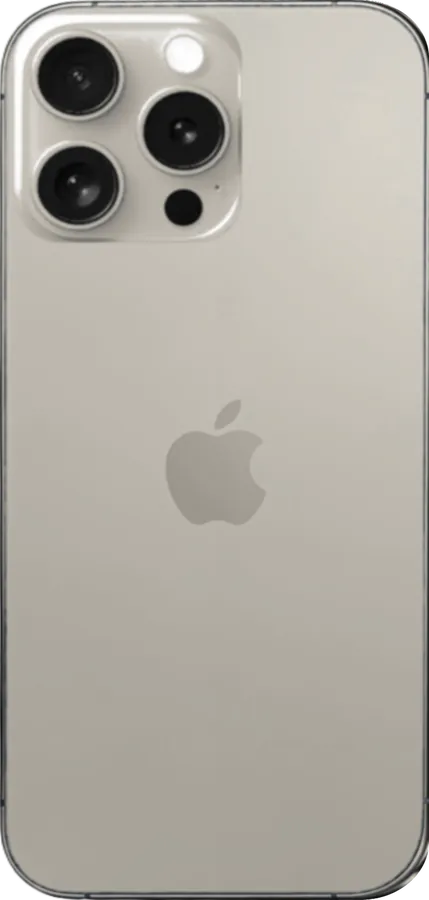
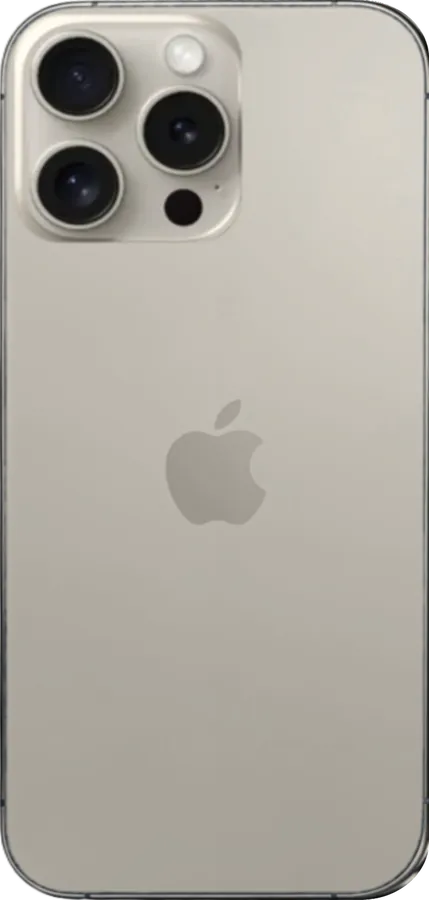
Phone backs: the 14/15/16 Pro camera as Apple drew it
Owner, 2026-10-11: "doesn't really look quite OEM ... as natural as possible
without the shiny glimmer". The camera plateau came from Apple's renders but
had its colour taken out, its tones set on a grey and painted back: flat
black lenses with hard white glints on a grey, sticker-like plateau.

module_oem now keeps each generation's plateau whole, lens glass, coatings,
flash, LiDAR and light as rendered, and moves only its metal to the finish,
from the render nearest the finish in lightness (adds the 15 Pro Max Blue
Titanium render, box and flash measured off it):
- down to a darker finish the metal is scaled in linear light by the finish
  over the render's back, as a darker paint under the same light, so its
  shine falls with it; up to a lighter one it steps up in Lab and rolls off
  before white (scaling Deep Purple 11x to Gold made it blotchy)
- lightness is keyed to the render's back, hue to the plateau's own metal
  (Blue Titanium's plateau is bluer than its back and left Black Titanium's
  camera blue); camera and back now agree within about 1 b on every finish
- glass is found by shape: the dark discs with the light inside them, under
  the render's glass level and, on a dark render, a third of its metal

Blue Titanium is the colour Apple's render shows (#4f545e), not the bluer
photo's. The light sweep and paint of the backs are unchanged from c8adf9e7;
dim_highlights and the grey path for Pro plateaus are gone.
[…]

diff --git a/scripts/bake_extra_phones.py b/scripts/bake_extra_phones.py
@@ -6,9 +6,10 @@ from real parts (repaint=true in index.json):
   * Pro / Pro Max (14, 15, 16): the back of the iPhone 15 Pro Blue Titanium
     photo (assets/cutouts/iphone-15-pro-back-blue.webp), straightened, its own
     camera taken out: it was shot from the right, so its plateau shows one side
-    wall and reads backwards when the phone turns the other way. In its place
-    goes the generation's own plateau from Apple's straight-on render (qs-*),
-    then glass and plateau are painted in the finish.
+    wall and reads backwards when the phone turns the other way. The back is
+    painted in the finish; in place of the camera goes the generation's own
+    plateau from Apple's straight-on render (qs-*), lens glass and light as
+    rendered, only its metal moved to the finish (module_oem).
   * 14 / 14 Plus / 15 / 15 Plus: the clean iPhone 16 White back with its pill
     camera patched out and the generation's square diagonal-lens plateau from
     Apple's straight-on render set in, then painted.
@@ -190,19 +191,92 @@ MODULES = {
     "14": ("qs-iphone-14-pro-max.webp", (11, 15, 143, 146)),   # Deep Purple
 }
 MOD_AT, MOD_SIZE = .034, .53     # plateau offset and size, in phone widths (the renders, measured)
-# Not too shiny (owner, 2026-10-11: "the highlight looks excessive ... too shiny or
-# fake"), measured on the real dark backs (16 Black, 17 Pro Max Deep Blue, 18 Pro
-# Black, 18 Pro Max Burgundy) and Apple's dark renders (14 and 15 Pro Max):
-#   the light down the back falls 5-10 L top to bottom on those (the 15 Pro Max
-#   render 9). The photo under every Pro falls 24 and 0.8 of it left the dark ones
-#   at 19-24, a glare; light ones fall 12-15 in both, as 0.55 of it does.
-#   the plateau's brightest 1% sits 40-50 L over its metal there, and none of it
-#   white. Highlights left unpainted stayed white on a dark finish (4-6% of the
-#   14's and 15's plateau at L 90 or more), so they peak at most HI over the
-#   finish: all of that on a dark one, none on a light one (55 L and up).
+# The Pro plateau as Apple drew it (owner, 2026-10-11: "doesn't really look quite
+# OEM ... as natural as possible without the shiny glimmer"). Taking the colour out
+# of a render, setting it on a grey and painting it back left flat black lenses
+# with white glints on a grey, sticker-like plateau. Now each Pro takes its
+# generation's plateau whole, lens glass, coatings and light as rendered, and only
+# its metal moves to the finish, from the render nearest the finish in lightness:
+# (file, plateau box in px, flash centre and radius in box widths), measured off
+# each render; its finish beside it.
+OEM = {
+    "16": [("qs-iphone-16-pro-max.webp", (11, 11, 148, 146), (.73, .18, .084))],   # White Titanium
+    "15": [("qs-iphone-15-pro-max.webp", (12, 12, 147, 147), (.74, .17, .085)),    # Blue Titanium
+           ("qs-iphone-15-pro.webp", (13, 11, 143, 146), (.75, .18, .088))],       # Natural Titanium
+    "14": [("qs-iphone-14-pro-max.webp", (11, 15, 143, 146), (.76, .13, .087))],   # Deep Purple
+}
+# How much of the photo's studio light a painted back keeps: it falls 24 L top to
+# bottom. Dark backs that are real photos fall 5-10 (16 Black 9, 17 Pro Max Deep
+# Blue 10, 18 Pro Black 5) and Apple's 15 Pro Max render 9; 0.8 left the dark ones
+# at 19-24, a glare. Light ones fall 12-15 in both, as 0.55 of it does.
 LIGHT_DARK, LIGHT_LIGHT = 0.45, 0.55
-HI = 45
 WORK_H = 1800
+
+
+def off_lidar(L, size):
+    """0 on a Pro's LiDAR, 1 elsewhere: found, not assumed, the dark dot low on the right."""
+    yy, xx = np.mgrid[0:size[1], 0:size[0]]
+    zone = (xx > size[0] * .6) & (yy > size[1] * .68) & (xx < size[0] * .95) & (yy < size[1] * .97)
+    dot = zone & (L < np.percentile(L[zone], 12))
+    cy, cx = yy[dot].mean(), xx[dot].mean()
+    r = np.sqrt(dot.sum() / np.pi)
+    return smooth(np.hypot(xx - cx, yy - cy), r * 1.15, r * 1.6)
+
+
+def render_back(f):
+    """The back's own colour on an Apple render (Lab): the glass below the camera,
+    left of the front phone."""
+    im = Image.open(CUT / f).convert("RGBA")
+    W, H = im.size
+    a = np.asarray(im).astype(float)[int(H * .45):int(H * .8), int(W * .03):int(W * .25)] / 255
+    return np.median(color.rgb2lab(a[..., :3])[a[..., 3] > .99], axis=0)
+
+
+def lin(c):
+    return np.where(c <= .04045, c / 12.92, ((c + .055) / 1.055) ** 2.4)
+
+
+def srgb(c):
+    return np.where(c <= .0031308, c * 12.92, 1.055 * np.clip(c, 0, None) ** (1 / 2.4) - .055)
+
+
+def module_oem(gen, size, tint):
+    """The generation's plateau as Apple rendered it, its metal moved to the finish.
+    Down to a darker finish the metal's colour is scaled in linear light by the
+    finish over the render's back colour, as a darker paint under the same light,
+    so its shading and shine fall with it. Up to a lighter one that would scale
+    the shine too (Deep Purple to Gold is 11x, its shadows went blotchy and its
+    rims white), so the metal steps up by the Lab difference instead and rolls
+    off before white. The lens glass and LiDAR (the dark discs, with the light
+    inside them) and the flash keep the render's own colour: glass whatever the finish."""
+    from scipy import ndimage
+    f, box, (fx, fy, fr) = min(OEM[gen], key=lambda r: abs(render_back(r[0])[0] - hex_lab(tint)[0]))
+    m = Image.open(CUT / f).convert("RGBA").crop(box).resize(size, Image.LANCZOS)
+    c = np.asarray(m)[..., :3] / 255
+    L = color.rgb2lab(c)[..., 0]
+    # glass is darker than the render's glass level, and on a dark render darker than
+    # a third of its metal: the Deep Purple's shadow round each lens is not glass
+    dark = ndimage.binary_fill_holes(L < min(_tones(f, box)[0] * 1.4, render_back(f)[0] * .3))
+    parts, n = ndimage.label(dark)
+    big = 1 + np.nonzero(ndimage.sum(dark, parts, range(1, n + 1)) > dark.size * .002)[0]
+    yy, xx = np.mgrid[0:size[1], 0:size[0]]
+    keep = np.isin(parts, big) | (off_lidar(L, size) < .05) | (np.hypot(xx - fx * size[0], yy - fy * size[1]) < fr * size[0] * 1.05)
+    k = 1 - ndimage.gaussian_filter(keep.astype(float), 1.0)
+    # what the metal is moved from: the render's back for lightness, the plateau's
+    # own metal for hue (Blue Titanium's plateau is bluer than its back, b -9 to -6,
+    # and left a Black Titanium camera blue)
+    back = render_back(f)
+    back[1:] = np.median(color.rgb2lab(c)[k > .9][:, 1:], axis=0)
+    if hex_lab(tint)[0] <= back[0]:
+        to = lin(np.array([int(tint[i:i + 2], 16) for i in (1, 3, 5)]) / 255)
+        new = srgb(lin(c) * (to / lin(np.clip(color.lab2rgb(back[None, None])[0, 0], 0, 1))))
+    else:
+        new = color.rgb2lab(c) + (hex_lab(tint) - back)
+        knee = 90
+        new[..., 0] = np.where(new[..., 0] > knee, knee + (100 - knee) * np.tanh((new[..., 0] - knee) / (100 - knee)), new[..., 0])
+        new = color.lab2rgb(np.clip(new, [0, -128, -128], [100, 127, 127]))
+    out = np.clip(srgb(lin(c) * (1 - k[..., None]) + lin(np.clip(new, 0, 1)) * k[..., None]), 0, 1)
+    return Image.fromarray(np.dstack([out * 255, np.asarray(m)[..., 3]]).round().astype(np.uint8), "RGBA")
 
 
 def _tones(f, box):
@@ -223,26 +297,14 @@ def module_neutral(f, box, size, to_med=None, to_spread=None, lidar=True):
     lab = color.rgb2lab(np.asarray(m)[..., :3] / 255)
     glass, med, spread = _tones(f, box)
     _, med16, spread16 = _tones(*MODULES["16"])
-    lifted = to_med is None and med < med16
     to_med = med16 if to_med is None else to_med
     to_spread = spread16 if to_spread is None else to_spread
     L = lab[..., 0]
     # stretch the spread only a little: a low-res render posterises
-    mapped = to_med + (L - med) * min(1.25, to_spread / spread)
-    if lifted:
-        # a darker render lifted to the grey runs its highlights past white (the
-        # 14's Deep Purple sits 50 L under it): roll them off, not clip them flat
-        knee = 90
-        mapped = np.where(mapped > knee, knee + (100 - knee) * np.tanh((mapped - knee) / (100 - knee)), mapped)
-    mapped = np.clip(mapped, 0, 100)
+    mapped = np.clip(to_med + (L - med) * min(1.25, to_spread / spread), 0, 100)
     k = smooth(L, glass * .8, glass * 1.6)
-    if lidar:                                       # found, not assumed: the dark dot low on the right
-        yy, xx = np.mgrid[0:size[1], 0:size[0]]
-        zone = (xx > size[0] * .6) & (yy > size[1] * .68) & (xx < size[0] * .95) & (yy < size[1] * .97)
-        dot = zone & (L < np.percentile(L[zone], 12))
-        cy, cx = yy[dot].mean(), xx[dot].mean()
-        r = np.sqrt(dot.sum() / np.pi)
-        k = k * smooth(np.hypot(xx - cx, yy - cy), r * 1.15, r * 1.6)
+    if lidar:
+        k = k * off_lidar(L, size)
     lab[..., 0] = L * (1 - k) + mapped * k
     lab[..., 1:] = 0
     rgb = (np.clip(color.lab2rgb(lab), 0, 1) * 255).round().astype(np.uint8)
@@ -314,43 +376,23 @@ def bake_pro():
     chroma = np.hypot(lab[..., 1], lab[..., 2])
     body = chroma > 18
     body_l = float(np.median(lab[..., 0][body]))
-    blue = lab_hex(np.median(lab[body], axis=0))
+    blue = lab_hex(render_back(OEM["15"][0][0]))   # Blue Titanium as Apple shows it; the photo's own is bluer
     # blue glass gets the full paint; the steel band gets a lighter tint
     weight = np.maximum(smooth(chroma, 6, 20), 0.85 * smooth(lab[..., 0], 20, 55))
     weight *= np.asarray(clean)[..., 3] / 255 > 0
     side = round(src.width * MOD_SIZE)
-    mods = {g: module_neutral(*MODULES[g], (side, side)) for g in MODULES}
     mmask = rrect_mask((side, side), round(side * .2), blur=1.2)
     out = []
     for pid, model, finish, target, w in PRO:
         tint = target or blue
         dark = hex_lab(tint)[0] < 40
         im = paint(clean, weight, tint, body_l, LIGHT_DARK if dark else LIGHT_LIGHT)
-        # the plateau and lens rings in the finish's colour, the glass left dark
-        mod, ref = mods[pid[:2]]
-        ml = color.rgb2lab(np.asarray(mod)[..., :3] / 255)[..., 0]
-        mod = dim_highlights(paint(mod, smooth(ml, 38, 68) * (1 - smooth(ml, 86, 94)), tint, ref, 0.6), ml, tint)
+        mod = module_oem(pid[:2], (side, side), tint)
         im = im.copy(); im.paste(mod, (round(src.width * MOD_AT), round(src.width * MOD_AT)), mmask)
         im = finish_back(im, w, pid)
         out.append(dict(id=pid, model=model, finish=finish, metal=target or metal_of(im),
                         w=w, h=H, repaint=True, ok=True))
     return out
-
-
-def dim_highlights(mod, ml, tint):
-    """The plateau's highlights, left unpainted and so white, brought down to peak
-    at most HI over the finish and lightly tinted by it; their shape is kept.
-    A light finish has no white to bring down and is left as it was."""
-    t = hex_lab(tint)
-    if t[0] + HI >= 100:
-        return mod
-    a = np.asarray(mod).astype(float) / 255
-    lab = color.rgb2lab(a[..., :3])
-    h = smooth(ml, 86, 94) * smooth(ml, 38, 68)
-    lab[..., 0] -= h * np.maximum(ml - (t[0] + (ml - t[0]) * HI / (100 - t[0])), 0)
-    lab[..., 1:] = lab[..., 1:] * (1 - h[..., None]) + t[1:] * h[..., None] * .5
-    rgb = np.clip(color.lab2rgb(lab), 0, 1)
-    return Image.fromarray(np.dstack([rgb * 255, a[..., 3:] * 255]).round().astype(np.uint8), "RGBA")
 
 
 def rrect_mask(size, r, blur=1.5):

diff --git a/scripts/audit_phone_views.py b/scripts/audit_phone_views.py
@@ -98,7 +98,20 @@ def lenses(a, alpha):
         hgt, wid = np.ptp(ys) + 1, np.ptp(xs) + 1
         if len(ys) / (np.pi * hgt * wid / 4) < .8:   # two lenses run together, or a lens in its ring's shadow
             continue
-        out.append(wid / hgt)
+        r = wid / hgt
+        # glass ends in a step, a cast shadow in a ramp, and a ramp moves when the cut
+        # does: on a dark finish the shadow a lens barrel casts down Apple's render
+        # sits at the cut and joins the glass. Read the lens at a cut a little darker
+        # too and keep the rounder; a camera seen at an angle is oval at both (the
+        # 3/4-shot backs of 91939917 read 1.086 and 1.088 either way).
+        core = ndimage.binary_opening((lab == i) & (L < 34), iterations=2)
+        cl, cn = ndimage.label(core)
+        if cn:
+            cy, cx = np.where(cl == 1 + np.argmax(ndimage.sum(core, cl, range(1, cn + 1))))
+            h2, w2 = np.ptp(cy) + 1, np.ptp(cx) + 1
+            if len(cy) / (np.pi * h2 * w2 / 4) >= .8 and abs(w2 / h2 - 1) < abs(r - 1):
+                r = w2 / h2
+        out.append(r)
     return out
 
 
